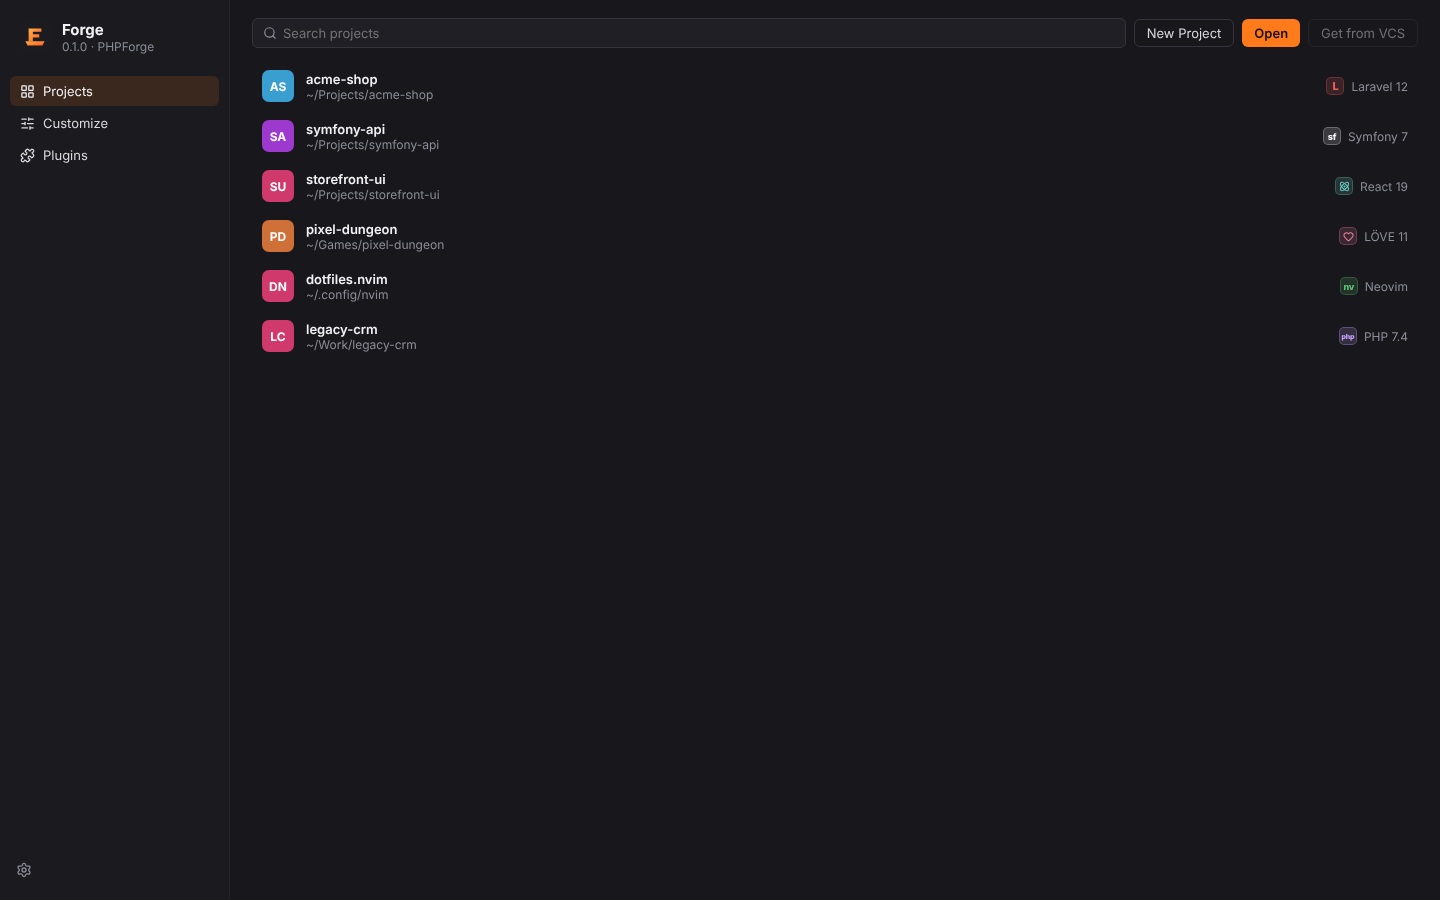
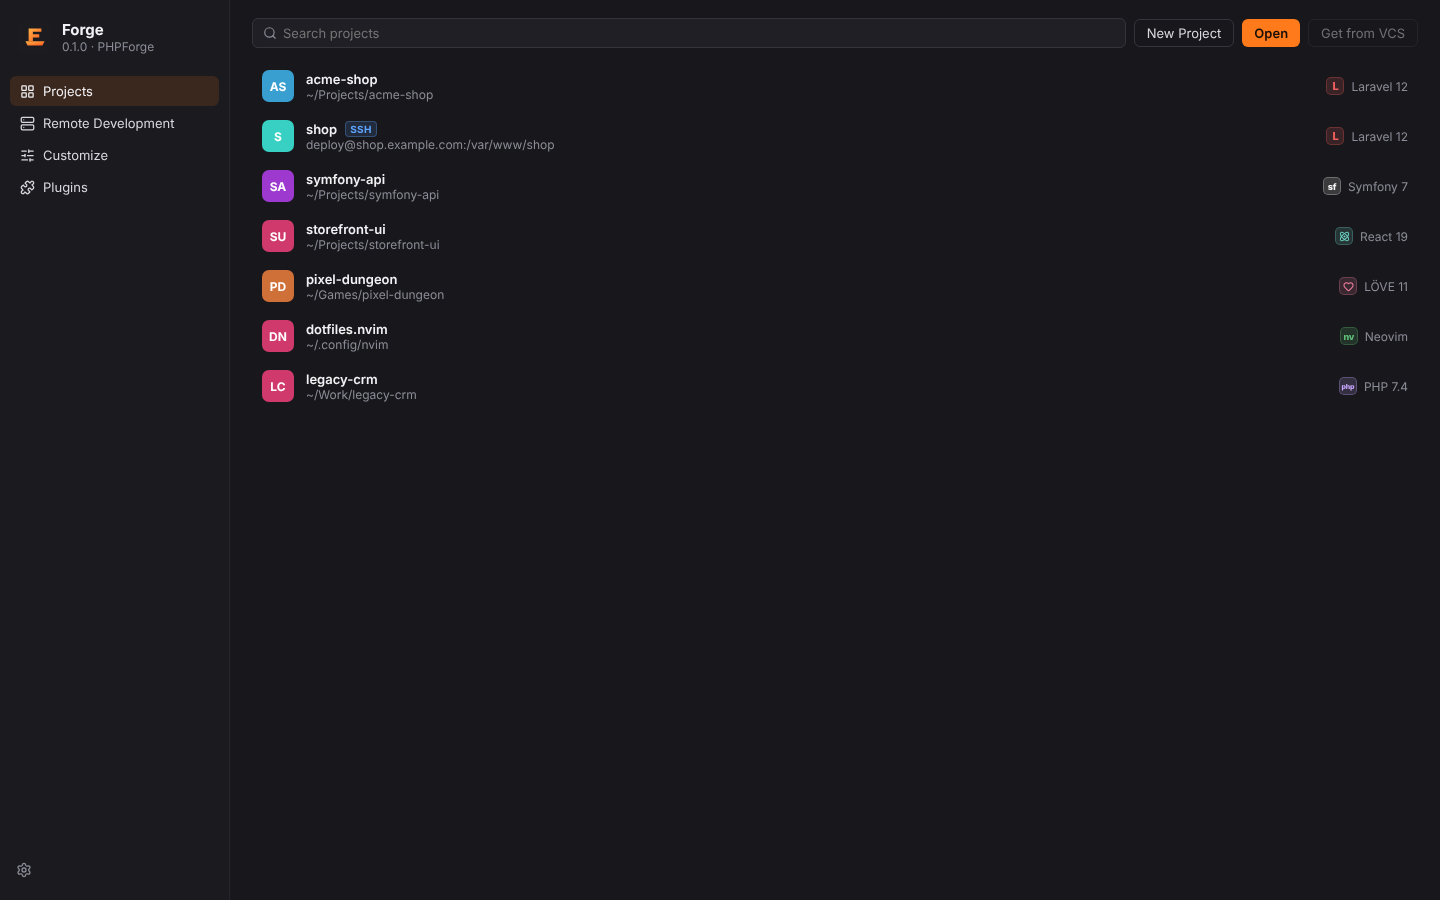
docs: add remote development scenarios, screenshots and mock tests

diff --git a/app/ui/src/mock/remoteMock.test.ts b/app/ui/src/mock/remoteMock.test.ts
@@ -1,0 +1,58 @@
+import { describe, expect, it } from "vitest";
+import "./workspaceMock";
+import { remoteApi, type SshConfiguration } from "@/ipc/remote";
+import { latencyLevel, statusText } from "@/features/remote/RemoteStatusItem";
+import { keyTypeLabel } from "@/features/remote/HostKeyDialog";
+
+const shop: SshConfiguration = { id: "", host: "shop", port: 22, user: "deploy", auth: "password" };
+
+describe("browser-mode remote development", () => {
+  it("lists ~/.ssh/config hosts and validates configurations in Rust", async () => {
+    const hosts = await remoteApi.sshHosts();
+    expect(hosts.map((h) => h.alias)).toEqual(["shop", "staging"]);
+    expect(hosts[1]).toMatchObject({ hostName: "staging.shop.internal", port: 2222, user: "root" });
+    expect(await remoteApi.validate({ ...shop, host: "" })).toContain("Host is required");
+  });
+
+  it("asks for the host key once, then connects, browses and opens the project", async () => {
+    const first = await remoteApi.connect(shop, "secret");
+    expect(first.status).toBe("failed");
+    if (first.status !== "failed" || first.error.kind !== "hostKey") throw new Error("expected a host key question");
+    expect(first.error.hostKey).toMatchObject({ status: "unknown", host: "shop.example.com", keyType: "ssh-ed25519" });
+    expect(first.error.hostKey.fingerprint).toMatch(/^SHA256:/);
+
+    const ok = await remoteApi.connect(shop, "secret", first.error.hostKey.fingerprint);
+    expect(ok.status).toBe("connected");
+    if (ok.status !== "connected") return;
+    // Known now: the next connection needs no confirmation.
+    expect((await remoteApi.test(shop, "secret")).ok).toBe(true);
+
+    const www = await remoteApi.browse(ok.connectionId, "/var/www/../www");
+    expect(www.path).toBe("/var/www");
+    expect(www.entries.find((e) => e.name === "shop")).toMatchObject({ dir: true, project: true });
+    const project = await remoteApi.browse(ok.connectionId, "/var/www/shop");
+    expect(project.entries.map((e) => e.name)).toContain("composer.json");
+
+    const info = await remoteApi.openProject(ok.connectionId, "/var/www/shop");
+    // Shown with the host as typed (an ~/.ssh/config alias here), like the backend does.
+    expect(info.root).toBe("deploy@shop:/var/www/shop");
+    expect(info.remote).toMatchObject({ host: "shop", user: "deploy", path: "/var/www/shop" });
+    expect(await remoteApi.status()).toMatchObject({ state: "connected" });
+  });
+
+  it("reports wrong credentials", async () => {
+    const r = await remoteApi.test({ ...shop, host: "staging.shop.internal", port: 2222, user: "root", id: "" });
+    expect(r.ok).toBe(false);
+    expect(r.error?.kind).toBe("auth");
+  });
+
+  it("formats the status widget", () => {
+    expect(latencyLevel(38)).toBe("good");
+    expect(latencyLevel(400)).toBe("poor");
+    expect(
+      statusText({ connectionId: "c", label: "l", host: "h", state: "reconnecting", attempt: 2, error: "x", nextRetrySecs: 2 }),
+    ).toBe("Reconnecting… (attempt 2)");
+    expect(keyTypeLabel("ssh-ed25519")).toBe("ED25519");
+    expect(keyTypeLabel("ecdsa-sha2-nistp256")).toBe("ECDSA");
+  });
+});

diff --git a/app/ui/src/features/remote/remote.css b/app/ui/src/features/remote/remote.css
@@ -166,12 +166,13 @@ select.ssh-input {
 }
 .ssh-secret-row {
   display: flex;
+  flex-wrap: wrap;
   align-items: center;
-  gap: 12px;
+  gap: 6px 12px;
   min-width: 0;
 }
 .ssh-secret-row .ssh-input {
-  flex: 1;
+  flex: 1 1 160px;
 }
 .ssh-check {
   display: inline-flex;
@@ -227,6 +228,10 @@ select.ssh-input {
   gap: 12px;
   min-height: 28px;
   margin-left: 160px;
+}
+.ssh-test-row > .btn-secondary {
+  flex-shrink: 0;
+  white-space: nowrap;
 }
 .ssh-test-result {
   display: flex;
@@ -449,7 +454,7 @@ select.ssh-input {
 }
 .remote-popup {
   position: absolute;
-  right: 0;
+  left: 0;
   bottom: calc(100% + 6px);
   z-index: 60;
   width: 340px;
@@ -509,7 +514,7 @@ select.ssh-input {
 }
 .ssh-master-detail {
   display: grid;
-  grid-template-columns: 230px minmax(0, 1fr);
+  grid-template-columns: 190px minmax(0, 1fr);
   min-height: 360px;
   border: 1px solid var(--border-strong);
   border-radius: var(--radius);
@@ -572,6 +577,16 @@ select.ssh-input {
   gap: 12px;
   padding: 14px 16px;
   min-width: 0;
+}
+.ssh-detail-pane .ssh-form,
+.ssh-detail-pane .ssh-name-row {
+  grid-template-columns: 116px minmax(0, 1fr);
+}
+.ssh-detail-pane .ssh-test-row {
+  margin-left: 126px;
+}
+.ssh-detail-pane .ssh-port {
+  width: 64px;
 }
 .ssh-detail-actions {
   display: flex;

diff --git a/app/ui/src/mock/workspaceMock.ts b/app/ui/src/mock/workspaceMock.ts
@@ -4,9 +4,6 @@ import { demoFiles, demoProjectName } from "./demoProject";
 import { demoConfigFiles } from "./demoConfigFiles";
 import { demoLaravelFiles } from "./demoLaravel";
 import { createIgnoreMatcher } from "./gitignoreMatcher";
-import { trackedPaths } from "./gitMock";
-import { recentPrimaries } from "./projectMock";
-import { isSymfonyDemo, symfonyDemoFiles, symfonyDemoName } from "./demoSymfonyProject";
 import {
   adoptRemoteProject,
   closeRemoteProject,
@@ -14,6 +11,9 @@ import {
   remoteWorkspace,
   setRemoteProjectFiles,
 } from "./remoteMock";
+import { trackedPaths } from "./gitMock";
+import { recentPrimaries } from "./projectMock";
+import { isSymfonyDemo, symfonyDemoFiles, symfonyDemoName } from "./demoSymfonyProject";
 
 /** The in-memory project (demo files plus whatever the UI saved); read by other mocks. */
 // `?project=symfony` opens the Symfony demo project instead of the Laravel one.

diff --git a/app/ui/src/mock/gitMock.ts b/app/ui/src/mock/gitMock.ts
@@ -189,12 +189,12 @@ const index: Record<string, string> = { ...head };
 index["app/Services/Checkout.php"] = demoFiles["app/Services/Checkout.php"];
 index["app/Http/Controllers/OrderController.php"] = controllerWorking;
 
-// Extra untracked file, written into the workspace mock.
+// Extra untracked file, written into the workspace mock (absent in some unit tests).
 void Promise.resolve().then(() =>
   invoke("fs_write_file", {
     path: UNTRACKED_EXTRA,
     contents: `<?php\n\nnamespace Tests\\Unit;\n\nuse App\\Services\\Checkout;\nuse PHPUnit\\Framework\\TestCase;\n\nclass CheckoutTest extends TestCase\n{\n    public function test_default_currency_is_euro(): void\n    {\n        $this->assertInstanceOf(Checkout::class, new Checkout());\n    }\n}\n`,
-  }),
+  }).catch(() => undefined),
 );
 
 async function listAll(dir = ""): Promise<string[]> {

diff --git a/app/ui/src/features/remote/RemoteDevelopmentPage.tsx b/app/ui/src/features/remote/RemoteDevelopmentPage.tsx
@@ -8,7 +8,7 @@ import { remoteApi } from "@/ipc/remote";
 import type { RecentProject } from "@/ipc/workspace";
 import { openSettings } from "@/features/settings/dialogState";
 import { AUTH_LABELS } from "./SshForm";
-import { connecting, openNewSshConnection, openRecentRemote } from "./store";
+import { connecting, openNewSshConnection, openRecentRemote, sshDialog } from "./store";
 
 /** The SSH badge shown on remote projects. */
 export function SshBadge() {
@@ -44,7 +44,7 @@ export function RemoteDevelopmentPage(props: { recent: RecentProject[]; row: (p:
           </button>
         </div>
 
-        <Show when={connecting()}>
+        <Show when={!sshDialog() && connecting()}>
           {(c) => (
             <div class="welcome-remote-connecting">
               <LoaderCircle size={14} class="ssh-spin" /> {c().message}

diff --git a/app/ui/src/features/remote/index.tsx b/app/ui/src/features/remote/index.tsx
@@ -12,6 +12,7 @@ import { registerCommand } from "@/state/commands";
 import { isRemoteProject, workspace } from "@/state/workspace";
 import { remoteApi } from "@/ipc/remote";
 import { showBalloon } from "@/keymap";
+import { openSettings } from "@/features/settings/dialogState";
 import { HostKeyDialog } from "./HostKeyDialog";
 import { RemoteFolderChooser } from "./RemoteFolderChooser";
 import { RemoteStatusItem } from "./RemoteStatusItem";
@@ -38,6 +39,13 @@ registerCommand({
   title: "New SSH Connection…",
   category: "File",
   run: () => openNewSshConnection(),
+});
+
+registerCommand({
+  id: "remote.settings",
+  title: "SSH Configurations…",
+  category: "Settings",
+  run: () => openSettings("tools.ssh"),
 });
 
 registerCommand({

diff --git a/app/ui/src/features/database/envDetect.ts b/app/ui/src/features/database/envDetect.ts
@@ -17,7 +17,8 @@ const announced = new Set<string>();
 
 /** Look for an unconfigured `.env` database; `announce` shows the notification once. */
 export async function checkEnv(announce = true): Promise<void> {
-  if (!workspace() || getSetting<boolean>("database.suggestFromEnv", true) === false) {
+  // Remote projects: databases would need an SSH tunnel, which Forge does not open yet.
+  if (!workspace() || workspace()?.remote || getSetting<boolean>("database.suggestFromEnv", true) === false) {
     setDetected([]);
     return;
   }

diff --git a/app/ui/src/features/remote/SshConfigurationsPage.tsx b/app/ui/src/features/remote/SshConfigurationsPage.tsx
@@ -87,7 +87,7 @@ export function SshConfigurationsPage() {
   return (
     <div class="ssh-settings">
       <p class="ssh-settings-intro muted">
-        SSH connections for remote development. Passwords and key passphrases are stored in the system keychain;
+        SSH connections for remote development. Passwords and key passphrases are stored in the system keychain;{" "}
         <code>~/.ssh/config</code> hosts can be used by their alias.
       </p>
       <div class="ssh-master-detail">

diff --git a/app/ui/src/shell/shell.css b/app/ui/src/shell/shell.css
@@ -257,6 +257,14 @@
   overflow: hidden;
   text-overflow: ellipsis;
 }
+/* The project name stays readable; a long root (user@host:/path) is cut instead. */
+.tree-root .tree-label {
+  flex-shrink: 0;
+}
+.tree-root .tree-hint {
+  min-width: 0;
+  white-space: nowrap;
+}
 
 /* ---------- Editor ---------- */
 .editor-area {
